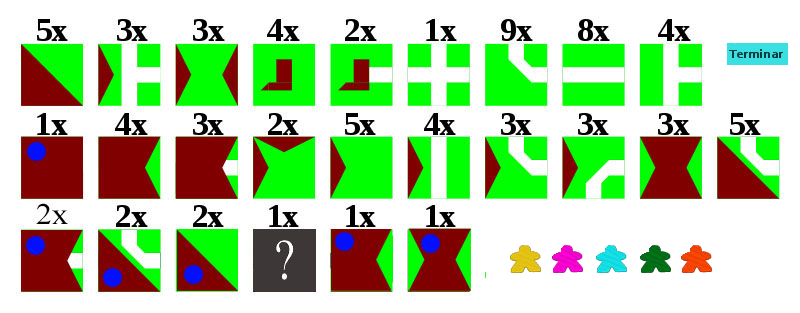
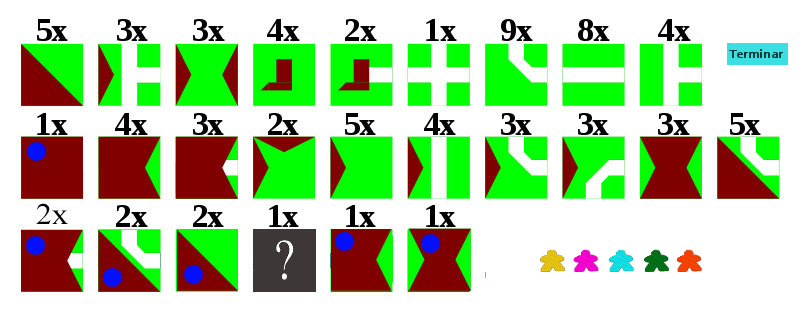
los seguidores ahora son mas pequeños

Changed region(s): [[0.625, 0.7764, 0.9062, 0.8914]]

diff --git a/iu/client/game.js b/iu/client/game.js
@@ -24,7 +24,7 @@ var sprites = {
 	cmur: { sx: 408, sy: 137, w: FICHA_W, h: FICHA_H, si:"campo", sc:"camino", sd:"campo2",
 		ci:"ciudad", cc:"camino", cd:"campo2", ii:"campo", ic:"camino", id:"campo2"},	//camino recto con muralla al 												lado(una de las fichas es la inicial)
 	ccmur: { sx: 485, sy: 137, w: FICHA_W, h: FICHA_H, si:"campo", sc:"camino", sd:"campo2",
-		ci:"ciudad", cc:"camino", cd:"camino", ii:"campo", ic:"campo", id:"campo"},	//camino con curva y con muralla 													al lado
+		ci:"ciudad", cc:"campo", cd:"camino", ii:"campo", ic:"campo", id:"campo"},	//camino con curva(de sc a cd) y 													con muralla al lado
 	chmur: { sx: 175, sy: 137, w: FICHA_W, h: FICHA_H, si:"ciudad", sc:"ciudad", sd:"campo",
 		ci:"ciudad", cc:"ciudad", cd:"camino", ii:"ciudad", ic:"ciudad", id:"campo2"},	//camino hacia muralla
 	chmure: { sx: 21, sy: 230, w: FICHA_W, h: FICHA_H, si:"ciudad", sc:"ciudad", sd:"campo",
@@ -35,8 +35,8 @@ var sprites = {
 		ci:"ciudad", cc:"camino", cd:"camino", ii:"ciudad", ic:"ciudad", id:"campo"},	//camino con curva con 2 lados de 													ciudad contiguos
 	ccmur2e: { sx: 98, sy: 230, w: FICHA_W, h: FICHA_H, si:"campo", sc:"campo", sd:"campo",
 		ci:"ciudad", cc:"camino", cd:"camino", ii:"campo", ic:"camino", id:"campo2"},	//camino con curva con 2 lados de 												ciudad contiguos con escudo
-	ccmur3: { sx: 562, sy: 137, w: FICHA_W, h: FICHA_H, si:"campo", sc:"ciudad", sd:"campo",
-		ci:"campo", cc:"ciudad", cd:"campo", ii:"campo", ic:"ciudad", id:"campo"},	//camino con curva y muralla al 												lado(otro)
+	ccmur3: { sx: 562, sy: 137, w: FICHA_W, h: FICHA_H, si:"campo", sc:"campo", sd:"campo",
+		ci:"ciudad", cc:"camino", cd:"camino", ii:"campo", ic:"camino", id:"campo2"},	//camino con curva(de ic a cd) y 													muralla al lado(otro)
 	murcam: { sx: 21, sy: 44, w: FICHA_W, h: FICHA_H, si:"campo", sc:"campo", sd:"campo",
 		ci:"ciudad", cc:"no", cd:"campo", ii:"ciudad", ic:"ciudad", id:"campo"},	//media ficha muralla media ficha 													campo
 	murcame: { sx: 176, sy: 230, w: FICHA_W, h: FICHA_H, si:"campo", sc:"campo", sd:"campo",
@@ -58,11 +58,11 @@ var sprites = {
 	ciucam2e: { sx: 408, sy: 230, w: FICHA_W, h: FICHA_H, si:"campo", sc:"ciudad", sd:"campo",
 		ci:"campo", cc:"ciudad", cd:"campo", ii:"campo", ic:"ciudad", id:"campo"},	//ciudad con 2 lados opuestos de 													campo con escudo
 	interrogante: { sx: 253, sy: 230, w: FICHA_W, h: FICHA_H},	//ficha con un interrogante
-	s1: { sx: 511, sy: 242, w: 30, h: 30},			//seguidor amarillo
-	s2: { sx: 553, sy: 242, w: 30, h: 30},			//seguidor rosa
-	s3: { sx: 596, sy: 242, w: 30, h: 30},			//seguidor azul
-	s4: { sx: 640, sy: 242, w: 30, h: 30},			//seguidor verde
-	s5: { sx: 682, sy: 242, w: 30, h: 30},		//seguidor naranja
+	s1: { sx: 535, sy: 248, w: 24, h: 24},			//seguidor amarillo
+	s2: { sx: 570, sy: 248, w: 24, h: 24},			//seguidor rosa
+	s3: { sx: 605, sy: 248, w: 24, h: 24},			//seguidor azul
+	s4: { sx: 640, sy: 248, w: 24, h: 24},			//seguidor verde
+	s5: { sx: 675, sy: 248, w: 24, h: 24},		//seguidor naranja
 	terminar: {sx: 727, sy: 44,w: 58,h: 20}		//Boton de temirnar
 };
 
@@ -78,7 +78,7 @@ playGame = function(){
 
 	Game.setBoard(0,new GamePoints(0));
 
-	var numjugadores=3; //nos lo tiene que dar la plataforma de momento es un ejemplo
+	var numjugadores=5; //nos lo tiene que dar la plataforma de momento es un ejemplo
 	
 	for (i=1;i<=numjugadores;i++){	
 		for (k=1;k<=7;k++){
@@ -312,7 +312,7 @@ FichaActual = new function() {
 	this.pulsado = function() {
 	
 		if (this.sprite === 'interrogante') {
-			this.sprite = 'ccmur2'; //PEDIR A LA IA!!!, de momento ponemos una ficha cualquiera
+			this.sprite = 'ccmur3'; //PEDIR A LA IA!!!, de momento ponemos una ficha cualquiera
 			return true;
 		}
 		if (this.x == this.inicialx && this.y == this.inicialy){
@@ -408,7 +408,7 @@ FichaActual = new function() {
 	}
 	
 	this.pintarRejilla = function(){
-	
+		
 		Game.ctx.fillStyle = "#000000";
 		Game.ctx.strokeRect(this.x,this.y,this.h/3,this.w/3);
 		Game.ctx.fillStyle = "#000000";
@@ -516,7 +516,7 @@ Seguidor = function(sprite, numjugador) {
 		}else if(x>FichaActual.x+FichaActual.h/3 && x<FichaActual.x+2*FichaActual.h/3 && y>FichaActual.y+FichaActual.w/3 && y<FichaActual.y+2*FichaActual.w/3){
 			this.x=FichaActual.x+FichaActual.h/3;
 			this.y=FichaActual.y+FichaActual.w/3;
-			this.zona=sprites[FichaActual.sprite].si;
+			this.zona=sprites[FichaActual.sprite].cc;
 			
 		}else if(x>FichaActual.x+2*FichaActual.h/3 && x<FichaActual.x+3*FichaActual.h/3 && y>FichaActual.y+FichaActual.w/3 && y<FichaActual.y+2*FichaActual.w/3){
 			this.x=FichaActual.x+2*FichaActual.h/3;
